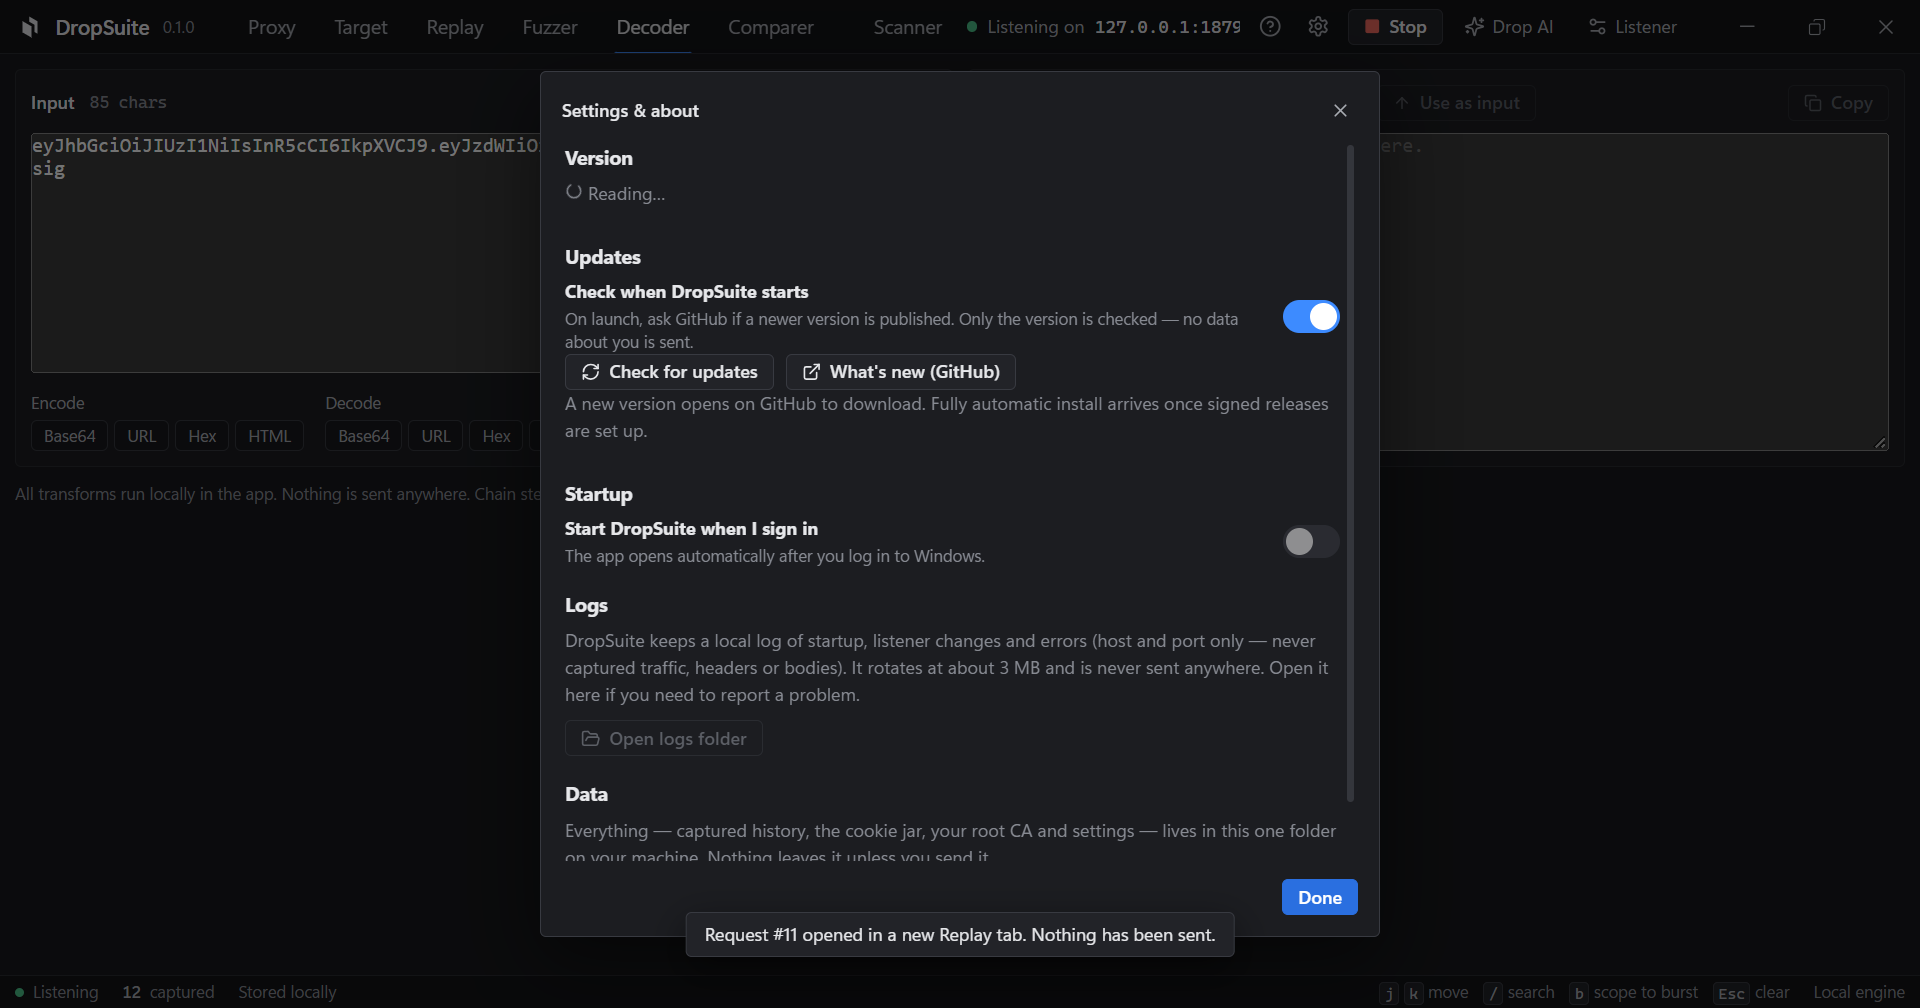
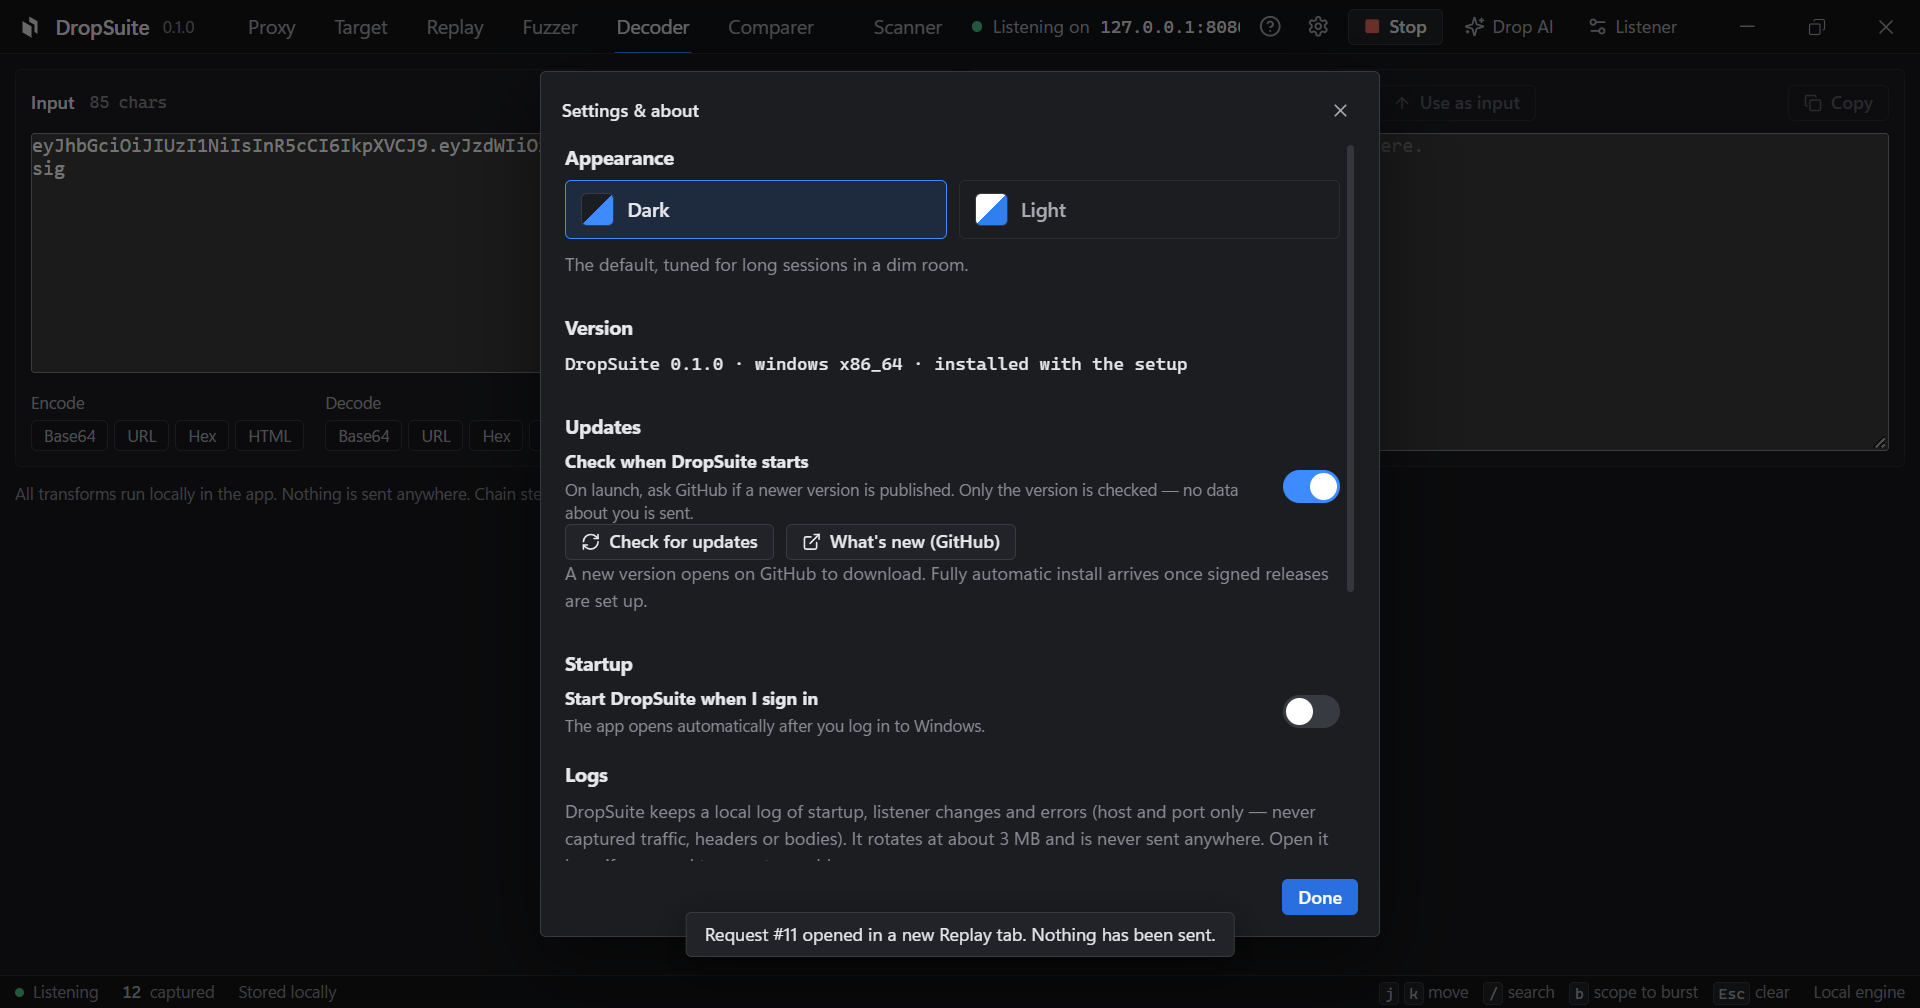
README: add contents, getting started, fix CA wording; refresh screenshots
Add a table of contents and a Getting started section (start the
listener, generate the CA for HTTPS, send traffic via Open Browser or
your own proxy), note the dark and light themes, and correct the CA key
wording to cover macOS and Linux (owner only file permissions), not just
Windows DPAPI. Recapture every showcase screenshot from the current UI
on the documented 127.0.0.1:8080.

diff --git a/README.md b/README.md
@@ -30,12 +30,22 @@ dependency, so it also runs headless.
   <img src="docs/assets/shots/proxy-history.png" alt="DropSuite proxy history and request inspector" width="900" />
 </div>
 
+## Contents
+
+- [What it does](#what-it-does)
+- [Install](#install)
+- [Getting started](#getting-started)
+- [Build from source](#build-from-source)
+- [Status](#status)
+- [Layout](#layout)
+- [Community](#community)
+
 ## What it does
 
 **Proxy and HTTPS interception.** An HTTP/1.1 forward proxy on `127.0.0.1:8080`. HTTPS is decrypted
 only for the hosts you add to an allowlist; everything else is tunnelled untouched. The root CA
-exists only after you click Generate, its private key is stored encrypted with Windows DPAPI, and
-it is never installed into any trust store.
+exists only after you click Generate, its private key is stored encrypted at rest (Windows DPAPI,
+or owner only file permissions on macOS and Linux), and it is never installed into any trust store.
 
 **HTTP history and inspector.** Every request and response, searchable and filterable, with a
 request and response view that shows headers, body and timing. Credentials are redacted before they
@@ -61,6 +71,9 @@ discovery against a target. An active scanner is in progress (see Status).
 
 **Drop AI.** Bring your own model and key. Secrets are redacted and the exact prompt is previewed
 before anything is sent, and requests go straight to your endpoint, never through the proxy.
+
+**Settings.** A dark and a light theme, optional update checks against GitHub, and one click to the
+local log and data folders, all in one panel.
 
 <div align="center">
   <img src="docs/assets/shots/scanner.png" alt="Passive scanner findings" width="440" />
@@ -92,6 +105,19 @@ choose **Open** to get past Gatekeeper.
 
 **Any Linux, one file.** Download `DropSuite_0.1.0_amd64.AppImage`, make it executable with
 `chmod +x DropSuite_0.1.0_amd64.AppImage`, and run it. No install needed.
+
+## Getting started
+
+1. Press **Start** in the top bar to run the proxy listener on `127.0.0.1:8080`.
+2. For HTTPS, open **Listener** settings to generate the local root CA, then add the hosts you want
+   decrypted to the allowlist. Trust the CA only while you test; plain HTTP needs no CA.
+3. Send traffic through the proxy: click **Open Browser** in the Proxy tab for an isolated browser
+   already wired to the listener, or point your own browser or system proxy at `127.0.0.1:8080`.
+   Then browse your target.
+4. Watch requests land in **HTTP history**. From there, send one to **Replay**, mark positions for
+   the **Fuzzer**, or open **Scanner** to check what you have captured.
+
+Only allowlisted HTTPS hosts are decrypted; everything else is tunnelled untouched.
 
 ## Build from source
 
